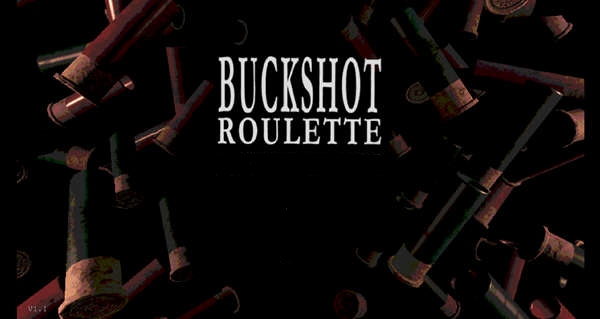
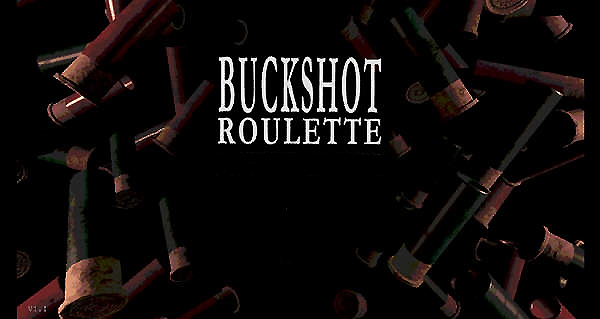
gameview background added

diff --git a/src/View/gameview.cpp b/src/View/gameview.cpp
@@ -1,20 +1,28 @@
 // gameview.cpp
+#include <iostream>
 #include "View/gameview.h"
 #include <QPushButton>
-#include <QVBoxLayout>
 #include <QLabel>
 
 GameView::GameView(QWidget* parent) : QWidget(parent) {
-    QVBoxLayout* layout = new QVBoxLayout(this);
 
-    statusLabel = new QLabel("Game Start", this);
-    layout->addWidget(statusLabel);
+    resize(1600, 1200);
+    QLabel* backgroundLabel = new QLabel(this);
+    QPixmap background("../assets/images/gameview_bak.png");
+    if (!background.isNull()) {
+        backgroundLabel->setPixmap(background);
+    backgroundLabel->setScaledContents(true);  // 自动缩放图像以适配 QLabel 大小
+    backgroundLabel->setSizePolicy(QSizePolicy::Ignored, QSizePolicy::Ignored);  // 防止保留原图尺寸
+    backgroundLabel->resize(1600,1200);     // 初始大小设为窗口大小
+    }
+    backgroundLabel->lower(); // 确保背景在最底层
+    //statusLabel = new QLabel("Game Start", this);
 
     selfButton = new QPushButton("Shoot yourself", this);
+    selfButton->setGeometry(100, 700, 200, 50); // Set position and size
     opponentButton = new QPushButton("Shoot  your opponent", this);
+    opponentButton->setGeometry(1300, 700, 200, 50); // Set position and size
 
-    layout->addWidget(selfButton);
-    layout->addWidget(opponentButton);
 
     connect(selfButton, &QPushButton::clicked, this, &GameView::shootSelf);
     connect(opponentButton, &QPushButton::clicked, this, &GameView::shootOpponent);
